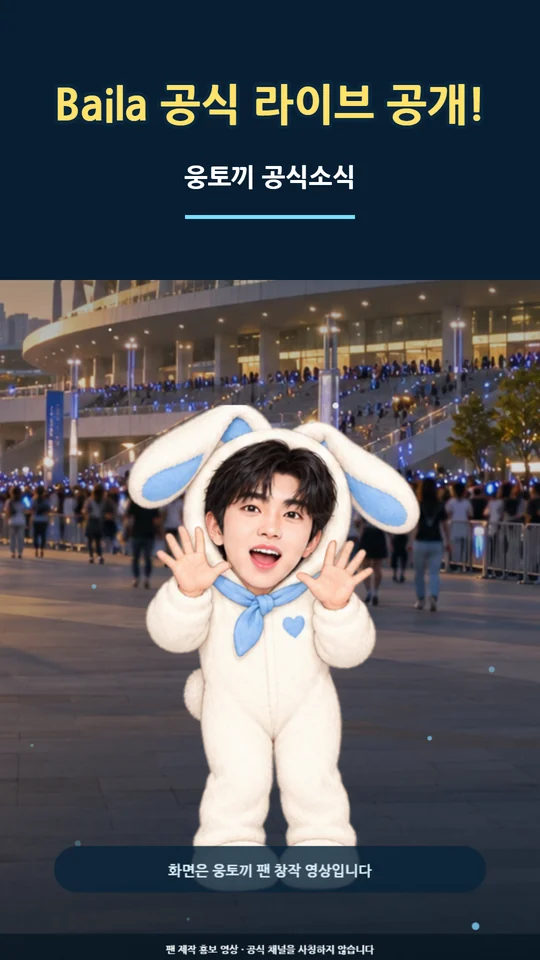
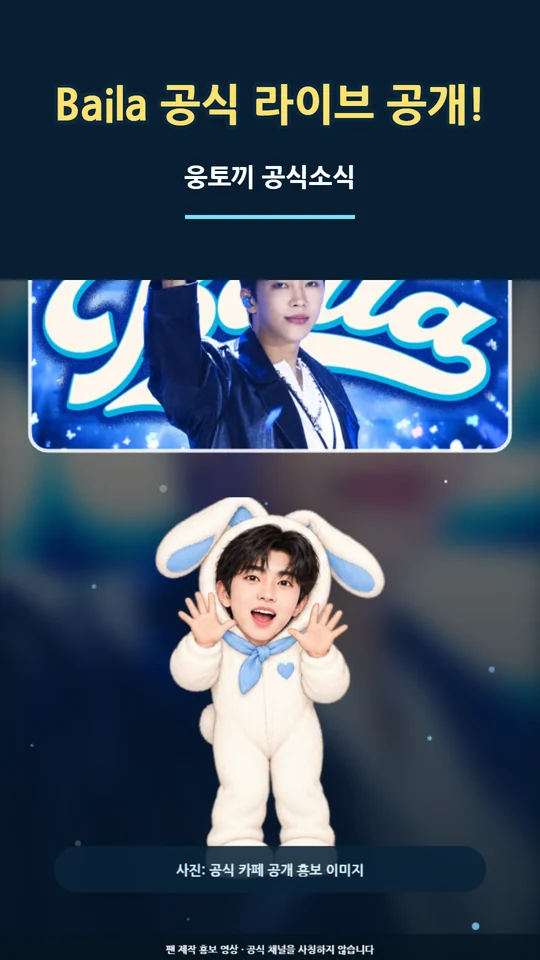
feat: add official Baila promo image

diff --git a/renewal/official-promo.js b/renewal/official-promo.js
@@ -3,7 +3,7 @@
 const $=id=>document.getElementById(id),canvas=$('stage'),ctx=canvas.getContext('2d'),W=720,H=1280,DURATION=25,FPS=30;
 const defaults={title:'Baila 공식 라이브 공개!',subtitle:'IM HERO · THE STADIUM 2',search:'임영웅 Baila 공식 라이브',video:'https://youtu.be/-wGXnDzPovw',cafe:'https://cafe.daum.net/hero0616/g7aK/945'};
 let data={...defaults},ready=false,time=0,raf=0,cancelled=false,downloadURL='';
-const backgrounds=[],sprites={greeting:[],actions:[]};
+const backgrounds=[],sprites={greeting:[],actions:[]};let officialPhoto;
 const clamp=(v,a=0,b=1)=>Math.max(a,Math.min(b,v)),ease=v=>{v=clamp(v);return v*v*(3-2*v)},lerp=(a,b,t)=>a+(b-a)*t;
 const say=s=>$('status').textContent=s;
 async function loadImage(src){const im=new Image();im.src=src;await im.decode();return im}
@@ -20,7 +20,7 @@ function segmentAt(t){return t<3?0:t<8?1:t<13?2:t<19?3:4}
 function render(t){
  time=clamp(t,0,DURATION);const segment=segmentAt(time),starts=[0,3,8,13,19],ends=[3,8,13,19,25],local=time-starts[segment],p=local/(ends[segment]-starts[segment]);ctx.clearRect(0,0,W,H);
  if(segment===0){const g=ctx.createRadialGradient(360,500,40,360,500,760);g.addColorStop(0,'#287da5');g.addColorStop(.55,'#153f67');g.addColorStop(1,'#071e38');ctx.fillStyle=g;ctx.fillRect(0,0,W,H);sparkles(time,'#80dcff');const q=ease(time/1.25),bob=Math.sin(time*7)*8;drawSprite(sprites.actions[Math.floor(time*3)%6],360,1180+bob,lerp(280,670,q));badge('웅토끼가 전하는 공식 새 소식');headline('잠깐!',192,82,'#ffe16c');headline('공식 영상이 나왔어요',285,56,'#fff')}
- if(segment===1){cover(backgrounds[0],.52,1.08+.04*p);darkOverlay(.82,.8);sparkles(time,'#83d8ff');drawSprite(sprites.actions[[5,4,3,4,5][Math.floor(local*2)%5]],365,1190,650,{flip:Math.floor(local*2)%4===1});badge('임영웅 공식 유튜브');headline(data.title,205,62,'#ffe16c');headline('새 영상 공개',290,68,'#fff');roundRect(72,1128,576,62,31,'rgba(9,35,56,.82)');ctx.fillStyle='#d9eff7';ctx.font='700 19px "Nanum Gothic",sans-serif';ctx.textAlign='center';ctx.fillText('화면은 웅토끼 팬 창작 영상입니다',360,1161)}
+ if(segment===1){ctx.save();ctx.filter='blur(18px) brightness(.5) saturate(1.25)';cover(officialPhoto,.5,1.15);ctx.restore();darkOverlay(.74,.84);sparkles(time,'#83d8ff');badge('공식 카페 공개 홍보 이미지');headline(data.title,175,60,'#ffe16c');ctx.save();ctx.beginPath();ctx.roundRect(40,245,640,356,24);ctx.clip();ctx.drawImage(officialPhoto,40,245,640,356);ctx.restore();ctx.lineWidth=5;ctx.strokeStyle='rgba(255,255,255,.88)';ctx.beginPath();ctx.roundRect(40,245,640,356,24);ctx.stroke();const wave=Math.sin(local*3)*7;drawSprite(sprites.actions[[5,4,3,4,5][Math.floor(local*2)%5]],360,1178+wave,510,{flip:Math.floor(local*2)%4===1});roundRect(72,1128,576,62,31,'rgba(9,35,56,.88)');ctx.fillStyle='#d9eff7';ctx.font='700 18px "Nanum Gothic",sans-serif';ctx.textAlign='center';ctx.fillText('사진: 공식 카페 공개 홍보 이미지',360,1161)}
  if(segment===2){cover(backgrounds[1],.5,1.06+.035*p);darkOverlay(.78,.76);sparkles(time,'#ffe988');const seq=[0,1,2,3,4,5],frame=seq[Math.floor(local*2.4)%seq.length],hop=Math.abs(Math.sin(local*2.5))*12;drawSprite(sprites.actions[frame],360,1185-hop,660,{flip:Math.floor(local/1.25)%2===1});badge('그날의 뜨거운 무대');headline(data.subtitle,205,52,'#fff');headline('다시 만날 시간!',292,66,'#8de5ff');ctx.fillStyle='#fff';ctx.font='800 25px "Nanum Gothic",sans-serif';ctx.textAlign='center';ctx.fillText('무대의 감동은 공식 영상에서',360,1135)}
  if(segment===3){const g=ctx.createLinearGradient(0,0,W,H);g.addColorStop(0,'#eaf6f8');g.addColorStop(.52,'#b9dfe9');g.addColorStop(1,'#73abc2');ctx.fillStyle=g;ctx.fillRect(0,0,W,H);sparkles(time,'#fff');badge('공식 영상 찾는 방법');headline('유튜브에서 검색하세요',190,54,'#fff');const grow=ease(p*1.8);ctx.save();ctx.translate(360,485);ctx.scale(.82+.18*grow,.82+.18*grow);roundRect(-310,-72,620,144,30,'#fff','#9abdc8');ctx.lineWidth=5;ctx.strokeStyle='#244d65';ctx.beginPath();ctx.arc(-244,-3,22,0,Math.PI*2);ctx.stroke();ctx.beginPath();ctx.moveTo(-228,14);ctx.lineTo(-207,35);ctx.stroke();const phrase=data.search;ctx.fillStyle='#1e3742';ctx.textAlign='left';ctx.textBaseline='middle';ctx.font=`800 ${fit(phrase,35,480,24)}px "Nanum Gothic",sans-serif`;ctx.fillText(phrase,-180,3);ctx.restore();const pulse=.5+.5*Math.sin(local*4);roundRect(115,605,490,72,36,`rgba(31,94,126,${.85+.1*pulse})`);ctx.fillStyle='#fff';ctx.textAlign='center';ctx.font='800 27px "Nanum Gothic",sans-serif';ctx.fillText('검색 후 공식 채널을 확인해 주세요',360,643);drawSprite(sprites.actions[3],510,1195,555,{flip:true,rotate:-.02});ctx.fillStyle='#22475c';ctx.font='800 24px "Nanum Gothic",sans-serif';ctx.fillText('좋아요 · 댓글 · 끝까지 시청',330,1115)}
  if(segment===4){cover(backgrounds[2],.5,1.04+.035*p);darkOverlay(.75,.82);sparkles(time,'#7fe1ff');const seq=[0,1,2,3,4,5],frame=seq[Math.min(5,Math.floor(local*1.45))],bob=Math.sin(local*3)*5;drawSprite(sprites.greeting[frame],360,1188+bob,690);badge('응원은 공식 영상에 남겨 주세요');headline('공식 영상 보러 출발!',202,57,'#fff');headline(local>3.6?'건행~':'좋아요와 응원은 공식 영상에',292,local>3.6?90:46,'#ffe16c');roundRect(90,1120,540,72,36,'rgba(7,30,50,.84)');ctx.fillStyle='#cfeefa';ctx.textAlign='center';ctx.font=`800 ${fit(data.search,25,480,18)}px "Nanum Gothic",sans-serif`;ctx.fillText(`검색: ${data.search}`,360,1158)}
@@ -28,7 +28,7 @@ function render(t){
  const fade=Math.max(0,1-local/.28);if(fade){ctx.fillStyle=`rgba(255,255,255,${fade*.32})`;ctx.fillRect(0,0,W,H)}$('seek').value=Math.round(time*100);$('clock').textContent=`0:${String(Math.floor(time)).padStart(2,'0')} / 0:25`;canvas.dataset.segment=String(segment+1);canvas.dataset.title=data.title
 }
 function narrationText(){return `웅토끼가 급하게 달려왔어요! 임영웅 공식 유튜브에 ${data.subtitle}의 ${data.title.replace(/!+$/,'')} 소식이 공개됐습니다. 그날의 뜨거운 무대는 꼭 공식 영상에서 만나 보세요. 유튜브에서 '${data.search}'를 검색하고, 좋아요와 응원도 공식 영상에 남겨 주세요. 건행!`}
-function descriptionText(){return `임영웅 공식 유튜브에\n‘${data.title.replace(/!+$/,'')}’ 소식이 공개됐습니다.\n\n이 쇼츠는 공식 영상을 알리기 위해 만든 팬 제작 홍보 영상입니다.\n화면은 웅토끼 창작 영상이며 공식 채널을 사칭하지 않습니다.\n\n공식 영상\n${data.video}\n\n공식 카페 공지\n${data.cafe}\n\n유튜브 검색: ${data.search}\n\n#임영웅 #Baila #IMHERO #영웅시대 #웅토끼`}
+function descriptionText(){return `임영웅 공식 유튜브에\n‘${data.title.replace(/!+$/,'')}’ 소식이 공개됐습니다.\n\n이 쇼츠는 공식 영상을 알리기 위해 만든 팬 제작 홍보 영상입니다.\n공식 카페에 공개된 홍보 이미지 한 장과 웅토끼 팬 창작 장면으로 구성했으며 공식 채널을 사칭하지 않습니다.\n\n공식 영상\n${data.video}\n\n공식 카페 공지\n${data.cafe}\n\n유튜브 검색: ${data.search}\n\n#임영웅 #Baila #IMHERO #영웅시대 #웅토끼`}
 function refreshText(){const script=narrationText();$('script-preview').textContent=script;document.querySelector('.silent-box a').href=data.video}
 function field(id,key){return $(id)?.value.trim()||defaults[key]}
 function applyInputs(message='이 작품의 내용을 영상에 적용했습니다.'){data={title:field('news-title','title'),subtitle:field('news-subtitle','subtitle'),search:field('search-phrase','search'),video:field('video-url','video'),cafe:field('cafe-url','cafe')};refreshText();render(time);if($('input-status'))$('input-status').textContent=message}
@@ -51,6 +51,7 @@ Promise.all([
  loadImage('assets/first-stadium/backgrounds/stadium-plaza.webp').then(im=>backgrounds[0]=im),
  loadImage('assets/woong-rabbit/backgrounds/chapter-03-arena.webp').then(im=>backgrounds[1]=im),
  loadImage('assets/woong-rabbit/backgrounds/chapter-06-finale.webp').then(im=>backgrounds[2]=im),
+ loadImage('assets/official-news/baila-official.png').then(im=>officialPhoto=im),
  loadImage('assets/woong-rabbit/greeting.png').then(im=>sprites.greeting=frames(im,3,2)),
  loadImage('assets/woong-rabbit/actions.png').then(im=>sprites.actions=frames(im,3,2)),document.fonts.ready
 ]).then(()=>{ready=true;for(const id of ['play','export','narration','thumbnail','description'])$(id).disabled=false;refreshText();render(0);say('25초 웅토끼 공식소식 쇼츠가 준비되었습니다.')}).catch(e=>say('장면을 불러오지 못했습니다: '+e.message));

diff --git a/renewal/official-promo-baila.html b/renewal/official-promo-baila.html
@@ -7,12 +7,12 @@
 <meta name="theme-color" content="#173b5b"><link rel="icon" href="icons/favicon-32.png">
 <link rel="stylesheet" href="https://fonts.googleapis.com/css2?family=Jua&family=Nanum+Gothic:wght@400;700;800&display=swap">
 <link rel="stylesheet" href="official-promo.css?v=20261004-01">
-<script src="official-promo.js?v=20261004-01" defer></script>
+<script src="official-promo.js?v=20261004-02" defer></script>
 </head>
 <body>
 <header class="promo-header"><a class="brand" href="official-promo.html">웅토끼 공식소식<span>OFFICIAL NEWS ARCHIVE</span></a><nav><a href="official-promo.html">소식 보관함</a><a href="woong-studio.html">웅토끼 작업실</a></nav></header>
 <main>
-<section class="intro"><div><p class="eyebrow">OFFICIAL NEWS · EP. 01 · 25 SEC</p><h1>Baila 공식 라이브,<br><span>웅토끼가 알립니다.</span></h1><p>이 소식을 위해 장면과 문구를 따로 구성한 첫 번째 공식소식 영상입니다.<br>완성된 무음 MP4에 YouTube 앱의 공식 리믹스 음원을 붙여 주세요.</p></div><div class="official-note"><b>공식소식 첫 번째 작품</b><strong>임영웅 ‘Baila’<br>공식 라이브 클립</strong><span>2026 IM HERO · THE STADIUM 2</span></div></section>
+<section class="intro"><div><p class="eyebrow">OFFICIAL NEWS · EP. 01 · 25 SEC</p><h1>Baila 공식 라이브,<br><span>웅토끼가 알립니다.</span></h1><p>공식 카페에서 공개한 홍보 이미지 한 장과 웅토끼 장면을 함께 구성했습니다.<br>완성된 무음 MP4에 YouTube 앱의 공식 리믹스 음원을 붙여 주세요.</p></div><div class="official-note"><b>공식소식 첫 번째 작품</b><strong>임영웅 ‘Baila’<br>공식 라이브 클립</strong><span>공식 홍보 이미지 + 웅토끼 팬 창작 장면</span></div></section>
 
 <section class="preview panel"><div class="section-title"><span>01</span><div><p class="eyebrow">PREVIEW & DOWNLOAD</p><h2>25초 쇼츠 미리보기</h2></div></div><div class="preview-layout"><div class="phone"><canvas id="stage" width="720" height="1280" aria-label="웅토끼 공식소식 25초 쇼츠 미리보기"></canvas><i>9:16 · 720 × 1280</i></div><div class="preview-tools"><div class="timeline"><input id="seek" type="range" min="0" max="2500" value="0" aria-label="영상 재생 위치"><output id="clock">0:00 / 0:25</output></div><div class="controls"><button id="play" disabled>▶ 미리보기</button><button id="export" disabled>25초 MP4 저장</button><button id="cancel" class="secondary" hidden>저장 취소</button></div><p id="status" role="status" aria-live="polite">웅토끼와 장면을 준비하고 있습니다…</p><a id="ready-download" hidden>완성 영상 다시 저장</a><div class="silent-box"><strong>영상은 일부러 무음으로 저장됩니다.</strong><p>YouTube 앱에서 공식 영상의 <b>공유 → 리믹스 → 이 사운드 사용</b>을 선택해 완성 영상에 붙이면 원본 출처가 자동으로 연결됩니다.</p><a href="https://youtu.be/-wGXnDzPovw" target="_blank" rel="noopener">Baila 공식 영상 열기 ↗</a></div></div></div></section>
 
